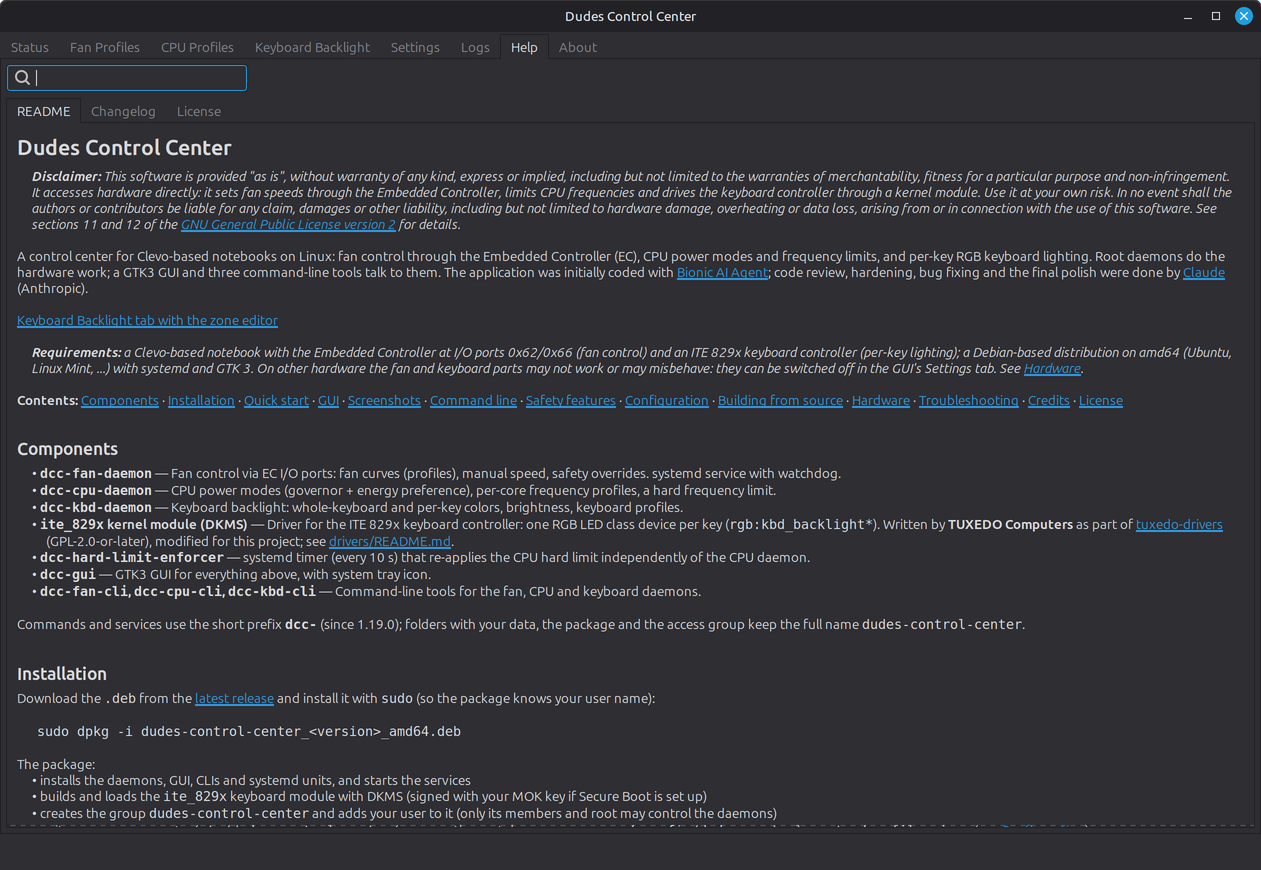
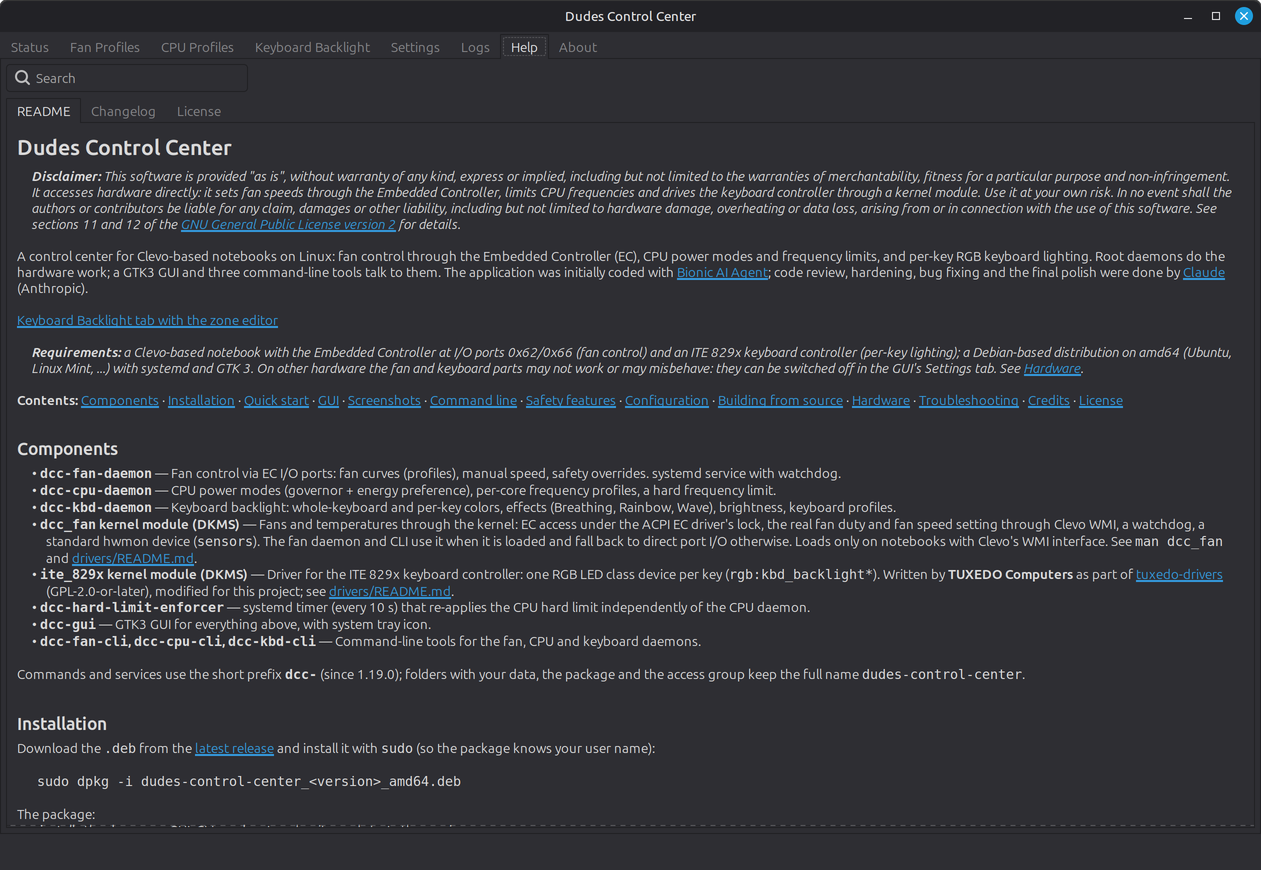
Docs: renewed Help tab screenshot

Changed region(s): [[0.0, 0.5586, 0.9588, 0.9621], [0.0309, 0.0621, 0.0619, 0.0931]]

diff --git a/CHANGELOG.md b/CHANGELOG.md
@@ -6,6 +6,9 @@ Programs and services were named `dudes-control-center-*` before 1.19.0 (for exa
 
 ## [Unreleased]
 
+### Documentation
+- README: the Help tab screenshot renewed (shows the `dcc_fan` module and the effects in the components list).
+
 ## [1.37.0] - 2026-11-25
 
 ### Added
